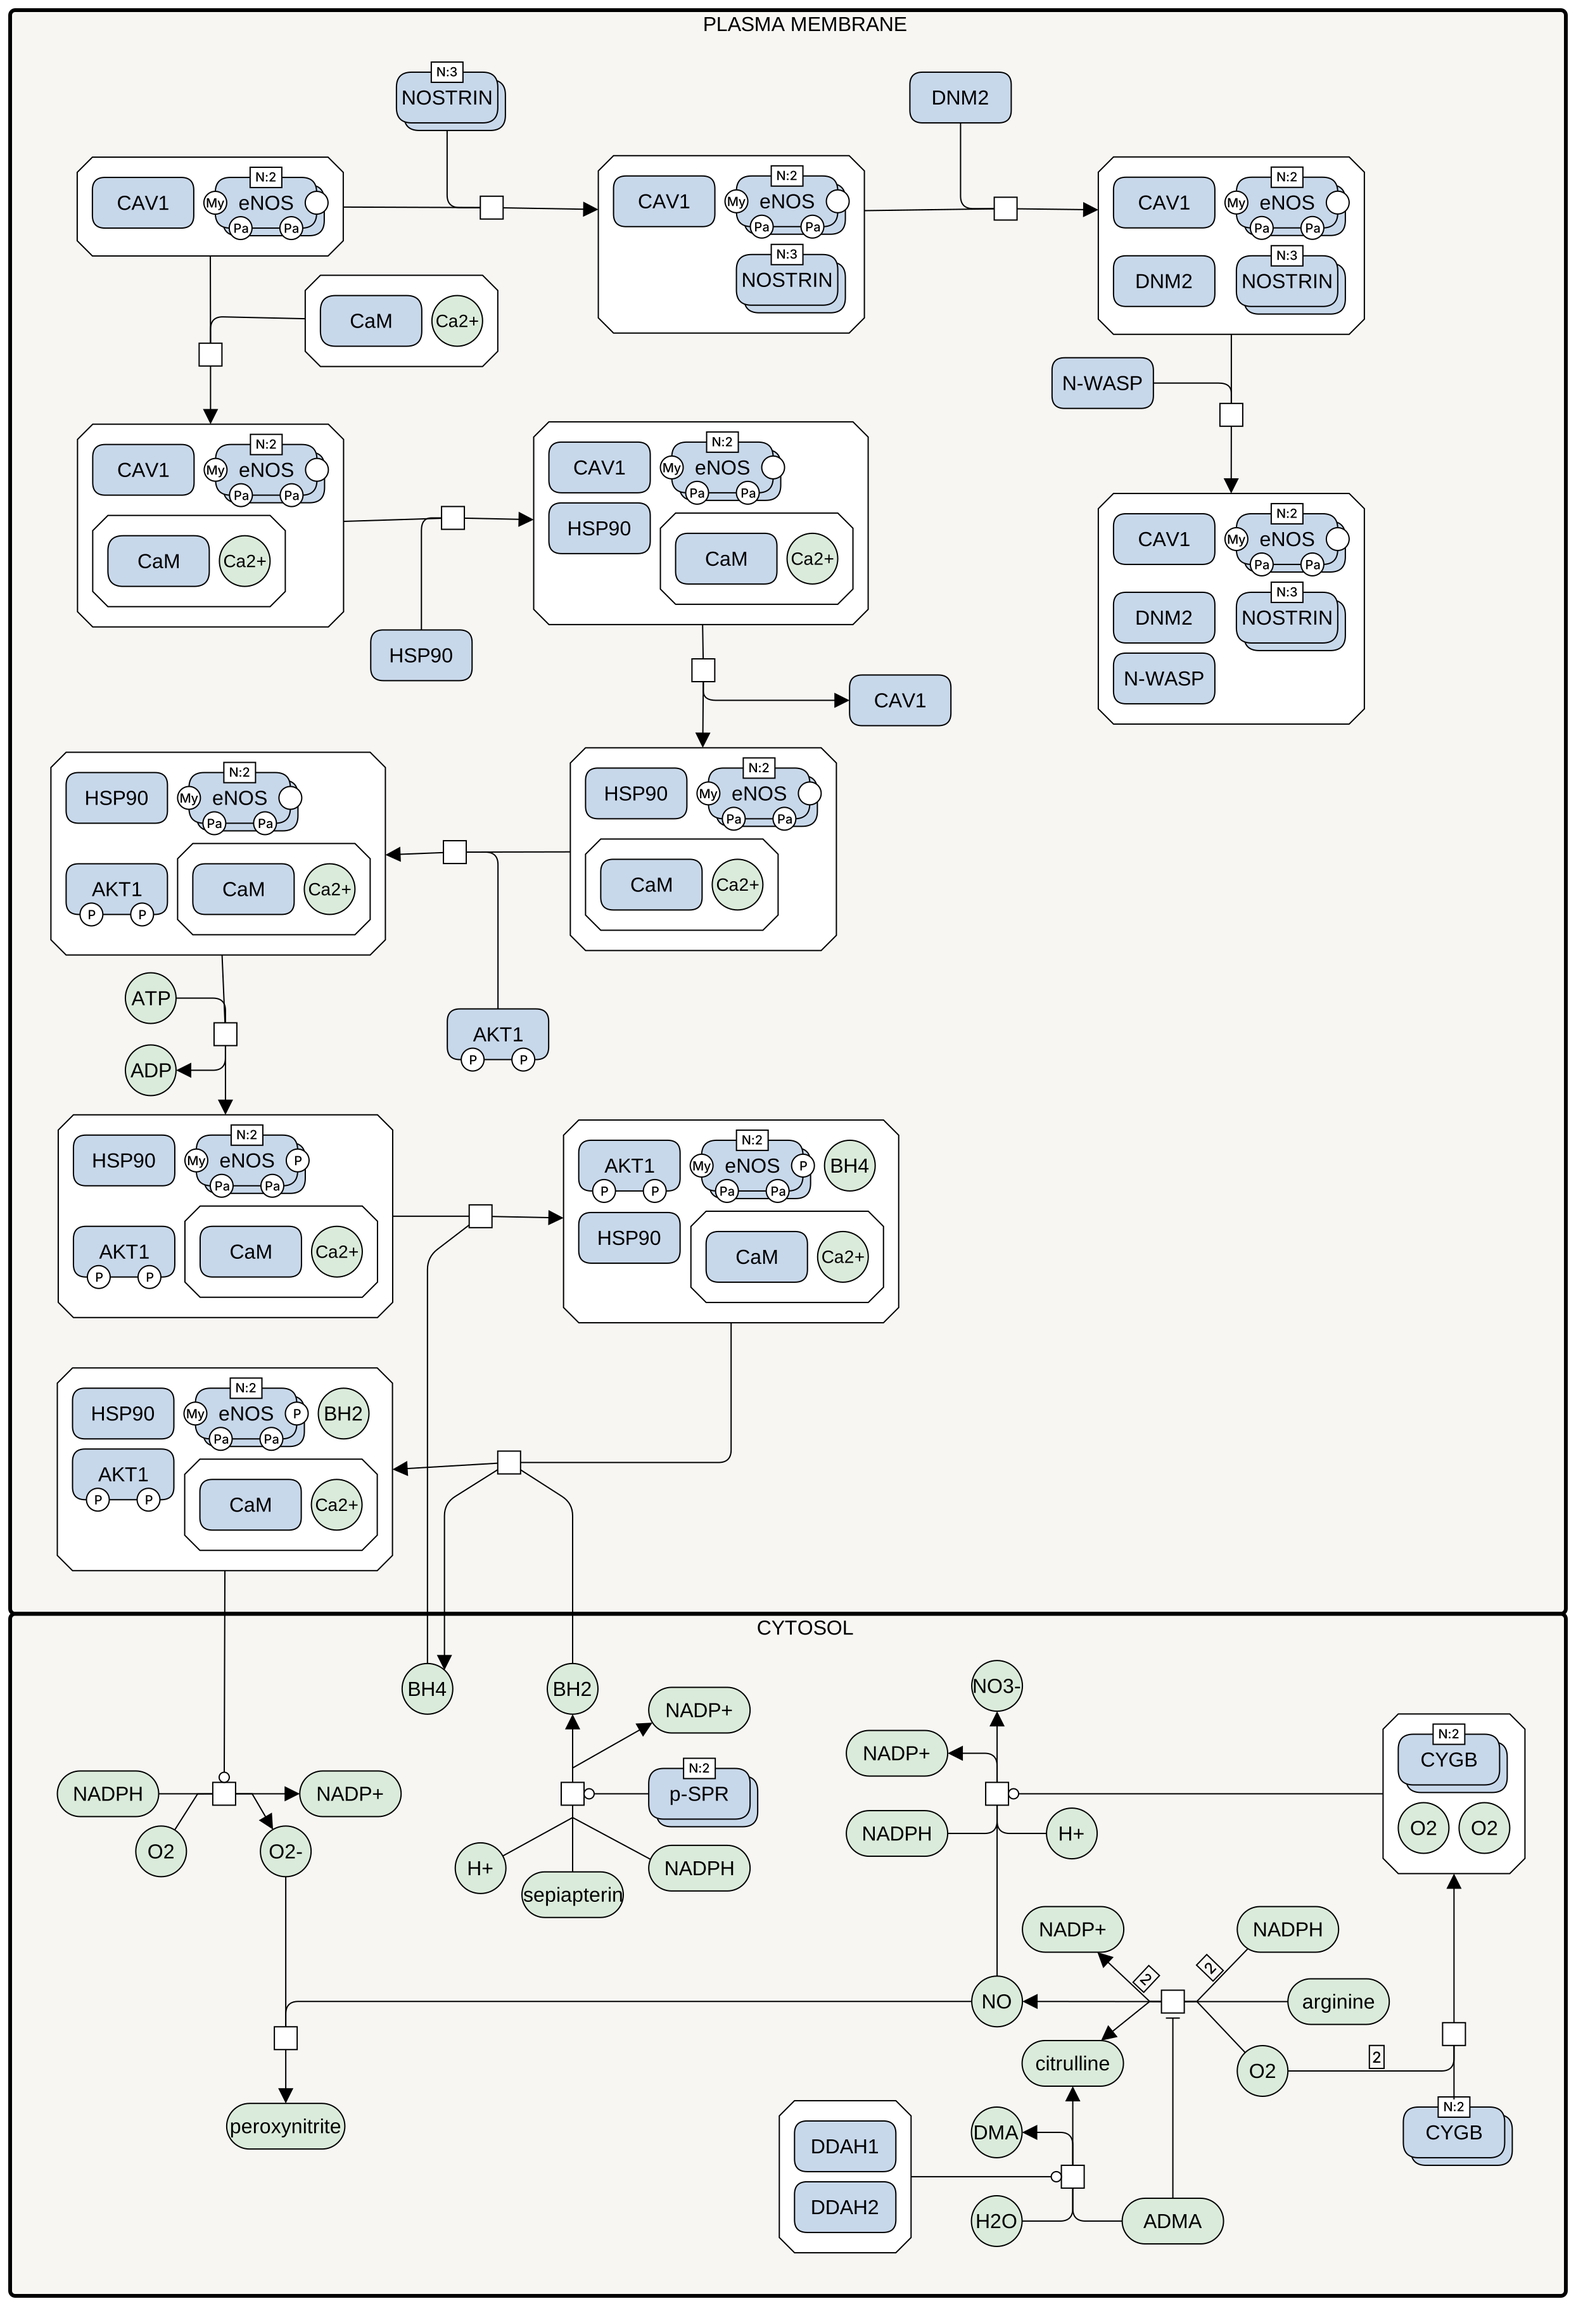
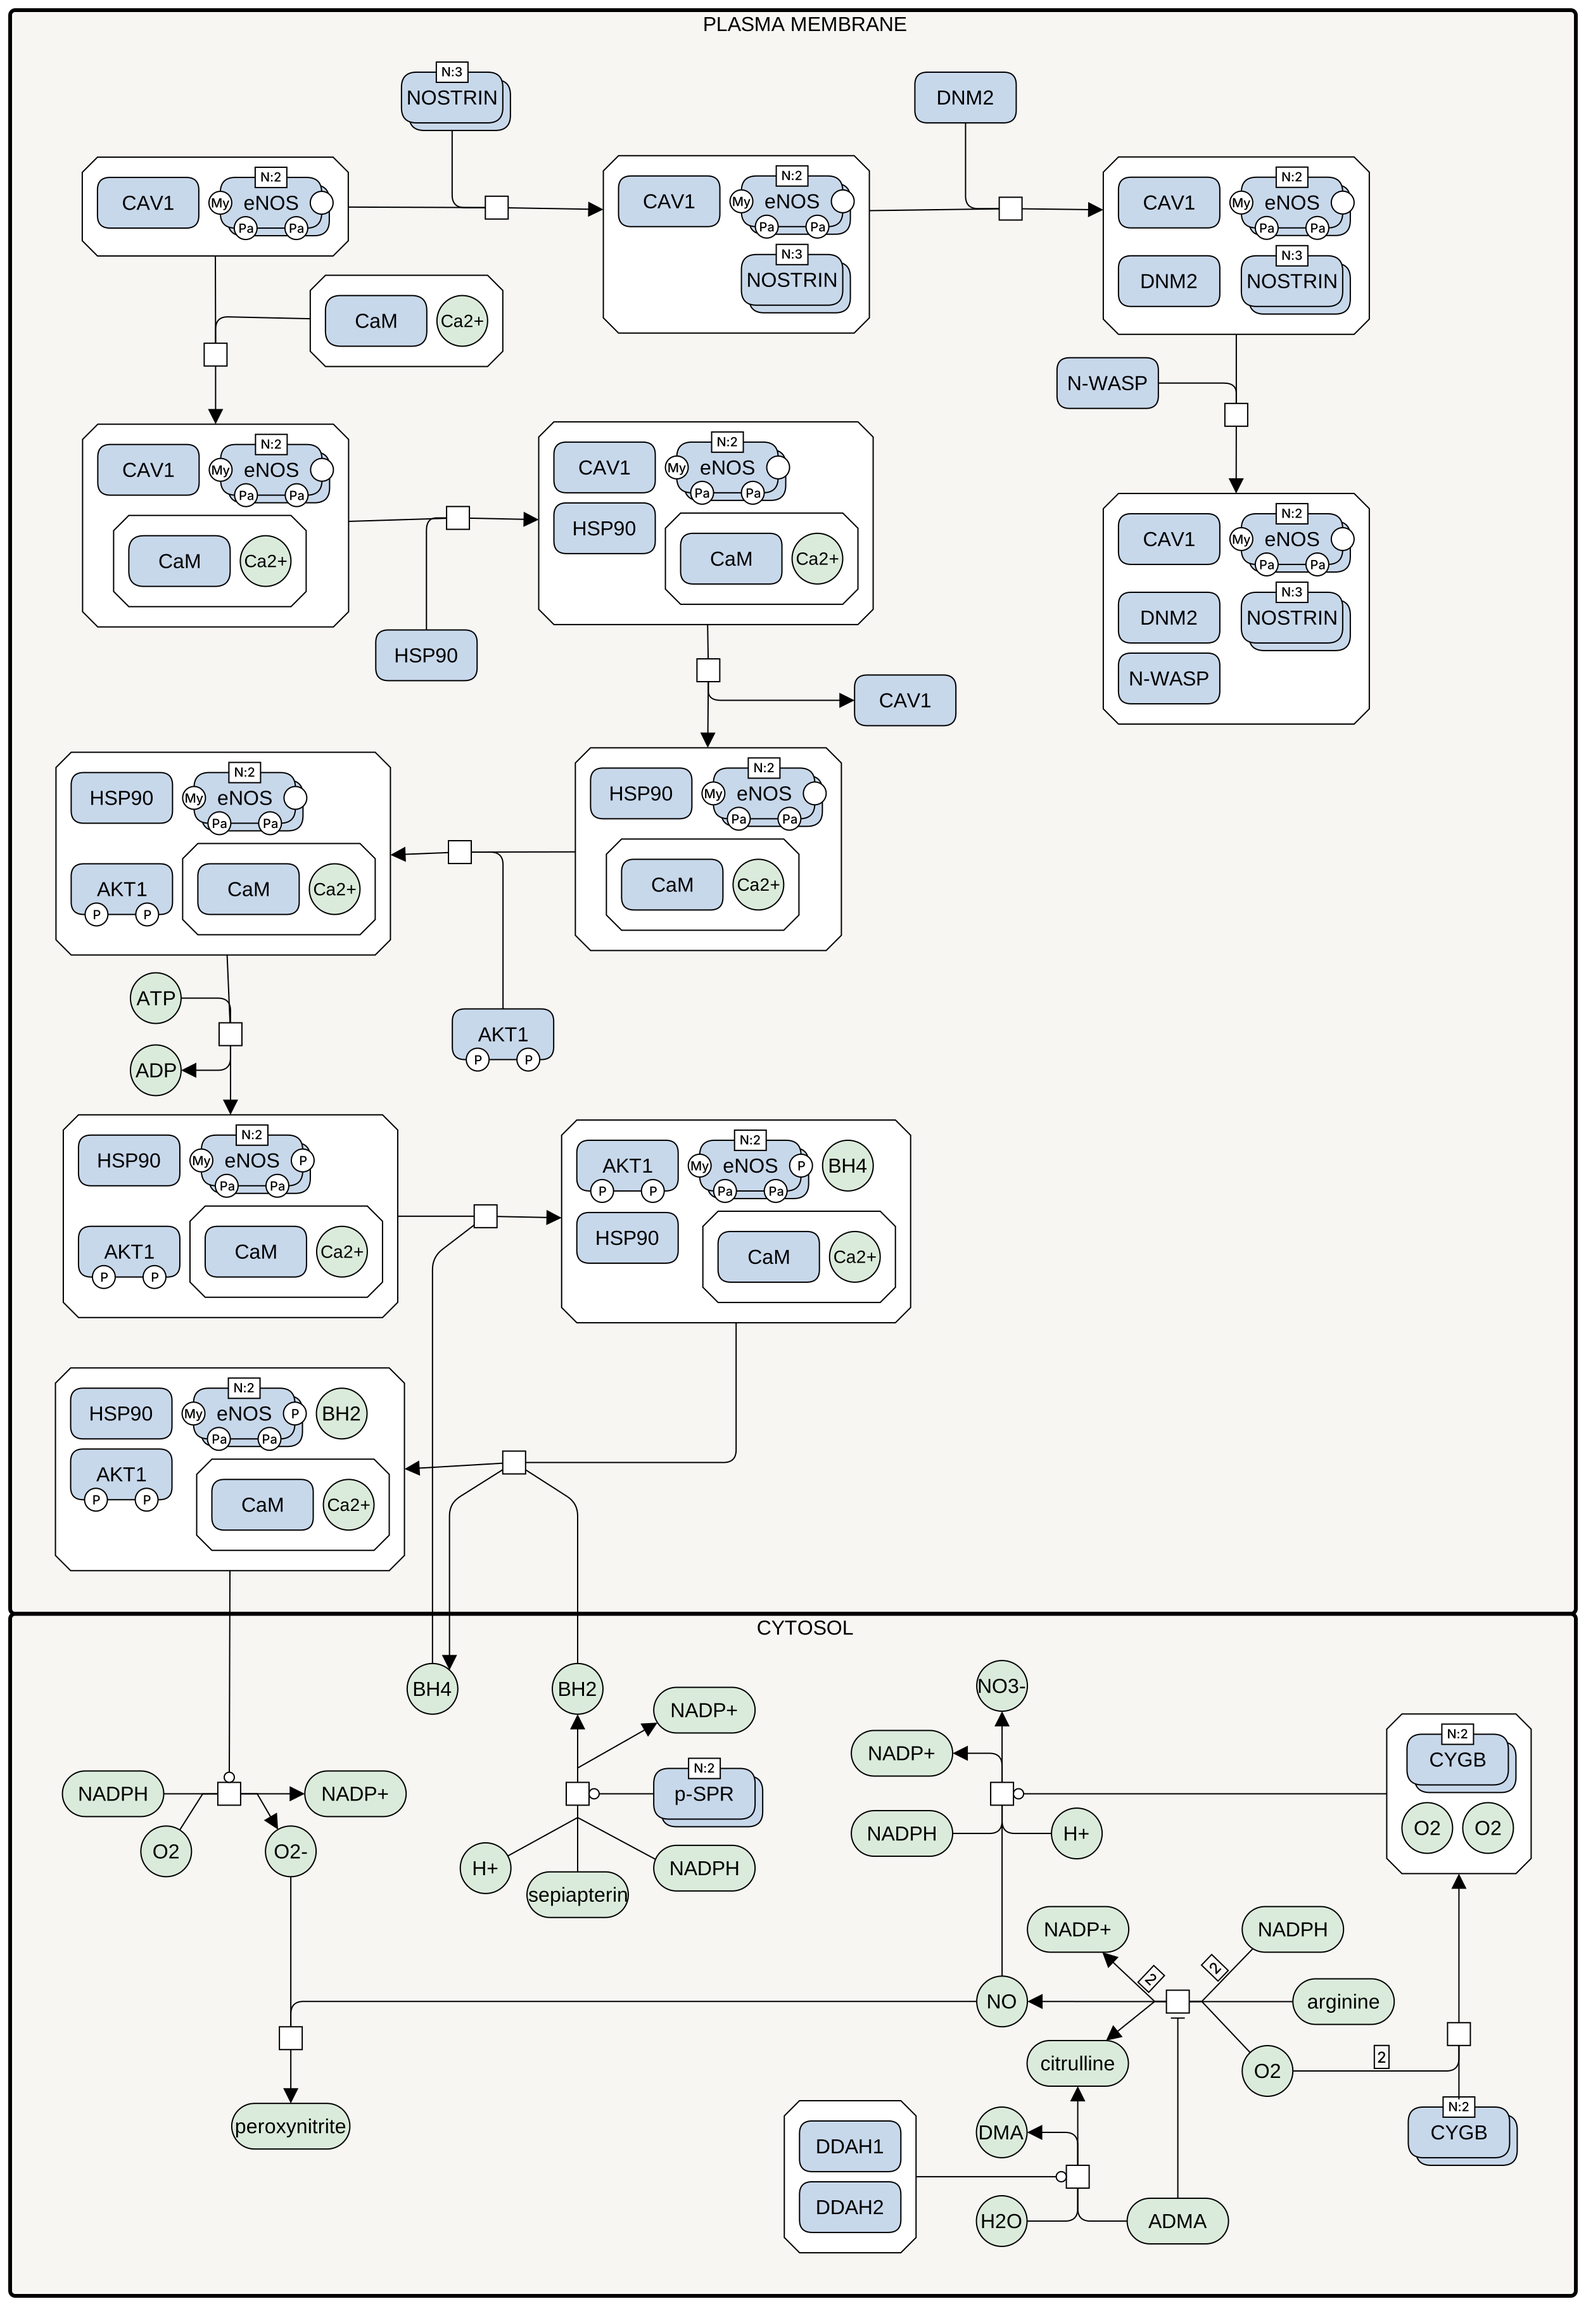
Atlas: a complex member between two columns centred between them (mevalonate LKB1; eNOS, estrogen, glycogen LL05)
Claude-Session: https://claude.ai/code/session_01HN9CqS9BWrqxDDSZRKxguh

diff --git a/_maps/enos.md b/_maps/enos.md
@@ -9,7 +9,7 @@ kind: "map"
 draft: false
 tag: ""
 image: "/atlas-downloads/F008-enos.svg"
-width: 1258
+width: 1266
 height: 1834
 scale: 1
 annotation: "/atlas-data/F008-enos.json"
